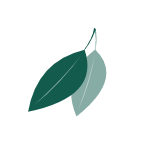
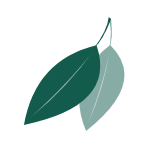
Teas and graphics added

diff --git a/templates/index.html b/templates/index.html
@@ -16,13 +16,10 @@
 				<h2 class="f-serif f-lg f-reg">What's your mood?</h2>
 			</header>
 			<div class="pos-rel">
-				<nav class="nav bg-green in-block p-sm">
-					<a href="#"><img src="/img/night.png" class="nav__icon m-h-sm "></a>
-					<a href="#"><img src="/img/awake.png" class="nav__icon m-h-sm "></a>
-					<a href="#"><img src="/img/healing.png" class="nav__icon m-h-sm "></a>
-					<a href="#"><img src="/img/joy.png" class="nav__icon m-h-sm "></a>
-					<a href="#"><img src="/img/night.png" class="nav__icon m-h-sm "></a> 
-					<a href="#"><img src="/img/healing.png" class="nav__icon m-h-sm "></a>
+				<nav class="nav bg-green in-block p-sm p-r-md p-l-md">
+					{% for tag in config.extra.tags %}
+						<a href="/tags/{{ tag }}"><img src="/img/{{ tag }}.png" class="nav__icon m-h-sm "></a>
+					{% endfor %}
 				</nav>
 			</div>
 			{% endblock header %}

diff --git a/templates/page.html b/templates/page.html
@@ -2,13 +2,13 @@
 
 {% block header %}
 	<header class="bg-purple">
-		<div class="p-lg f-bold f-md white"><img src="/img/arrow-left.png"> <a href="javascript:history.back()">back</a></div>
+		<div class="p-lg f-bold f-md white">&larr; <a href="javascript:history.back()">back</a></div>
 	</header>
 
 {% endblock header%}
 
 {% block content %}
-<div class="teaOverview">
+<div class="teaOverview m-t-lg">
 			<!-- IMAGES -->
 		<div class="teaOverview__imageBlock">
 			
@@ -23,7 +23,7 @@
 			<!-- CONTENT -->
 		<div class="teaOverview__copyBlock">
 				<div>
-					<h2 class="f-serif f-lg black f-reg p-t-md">{{ page.title }}</h2>
+					<h2 class="f-serif f-lg purple f-reg p-t-md t-trk-neg">{{ page.title }}</h2>
 				</div>
 
 				<div>

diff --git a/sass/main.scss b/sass/main.scss
@@ -22,6 +22,7 @@ ul {
 
 a {
 	color: inherit;
+	margin: 0;
 }
 
 .nav {
@@ -34,6 +35,7 @@ a {
 .nav__icon {
 	width: 40px;
 	height: 40px;
+	vertical-align: bottom;
 }
 
 .teaPreview {
@@ -85,14 +87,14 @@ a {
 	z-index: 0;
 	max-width: 72%;
 	margin-top: 340px;
-	margin-left: 150px;
+	margin-left: 120px;
 }
 
 .teaOverview__imageBlock--imageSecondary{
 	position: absolute;
 	z-index: 1;
-	margin-left: 250px;
-	margin-top: 10px;
+	margin-left: 210px;
+	margin-top: 20px;
 }
 
 .teaOverview__imageBlock--imageTertiary{

diff --git a/templates/tags/single.html b/templates/tags/single.html
@@ -14,10 +14,10 @@
 
 			
 			<div class="teaPreview__copyBlock p-l-md">
-				<div class="t-up t-trk f-bold f-sm white bg-green p-sm in-block pos-rel">Tea Match No. 1</div>
+				<div class="t-up t-trk f-bold f-sm white bg-green p-sm in-block pos-rel">Tea Match No. {{ loop.index }}</div>
 			
 				<div>
-					<h2 class="f-serif f-lg black f-reg p-t-md">{{ page.title }}</h2>
+					<h2 class="f-serif f-lg purple f-reg p-t-md t-trk-neg">{{ page.title }}</h2>
 				</div>
 
 				<div>

diff --git a/sass/globals.scss b/sass/globals.scss
@@ -13,7 +13,7 @@ $font-weight-r: 400;
 
 // COLORS
 $colors:(
-	purple: #685E6C,
+	purple: #44334A,//#534259,
 	green: #125B4D,
 	white: #FFFFFF,
 	black: #000000,

diff --git a/sass/utils.scss b/sass/utils.scss
@@ -88,6 +88,10 @@
 	letter-spacing: 1px;
 }
 
+.t-trk-neg{
+	letter-spacing: -1px;
+}
+
 .in-block{
 	display: inline-block;
 }

diff --git a/templates/resize_image.html b/templates/resize_image.html
@@ -1,0 +1,1 @@
+<img src="{{ resize_image(path=path, width=width, height=height, op=op) }}" />

diff --git a/content/teas/ginger.md b/content/teas/ginger.md
@@ -1,12 +1,12 @@
 +++
-title = "Chamomile"
+title = "Ginger"
 
 [taxonomies]
-tags = ["night", "calm", "healing", "joy"]
+tags = ["energizing", "calm", "morning", "healing"]
 
 [extra]
-brew_time = 7
-key_effect = "calming"
+brew_time = 2
+key_effect = "anti-inflammatory"
 
 +++
 

diff --git a/content/teas/green.md b/content/teas/green.md
@@ -1,12 +1,12 @@
 +++
-title = "Chamomile"
+title = "Green"
 
 [taxonomies]
-tags = ["night", "calm", "healing", "joy"]
+tags = ["healing", "morning", "energizing", "calming"]
 
 [extra]
-brew_time = 7
-key_effect = "calming"
+brew_time = 2
+key_effect = "detoxifying"
 
 +++
 

diff --git a/content/teas/peppermint.md b/content/teas/peppermint.md
@@ -1,12 +1,12 @@
 +++
-title = "Chamomile"
+title = "Peppermint"
 
 [taxonomies]
-tags = ["night", "calm", "healing", "joy"]
+tags = ["energizing", "morning", "healing", "joy"]
 
 [extra]
-brew_time = 7
-key_effect = "calming"
+brew_time = 4
+key_effect = "refreshing"
 
 +++
 

diff --git a/content/teas/echinacea.md b/content/teas/echinacea.md
@@ -1,12 +1,12 @@
 +++
-title = "Chamomile"
+title = "Echinacea"
 
 [taxonomies]
-tags = ["night", "calm", "healing", "joy"]
+tags = ["healing", "calming", "night"]
 
 [extra]
-brew_time = 7
-key_effect = "calming"
+brew_time = 3
+key_effect = "immune booster"
 
 +++
 

diff --git a/content/teas/anise.md b/content/teas/anise.md
@@ -1,12 +1,12 @@
 +++
-title = "Chamomile"
+title = "Anise"
 
 [taxonomies]
-tags = ["night", "calm", "healing", "joy"]
+tags = ["healing", "calm"]
 
 [extra]
-brew_time = 7
-key_effect = "calming"
+brew_time = 10
+key_effect = "anti-inflammatory"
 
 +++
 
